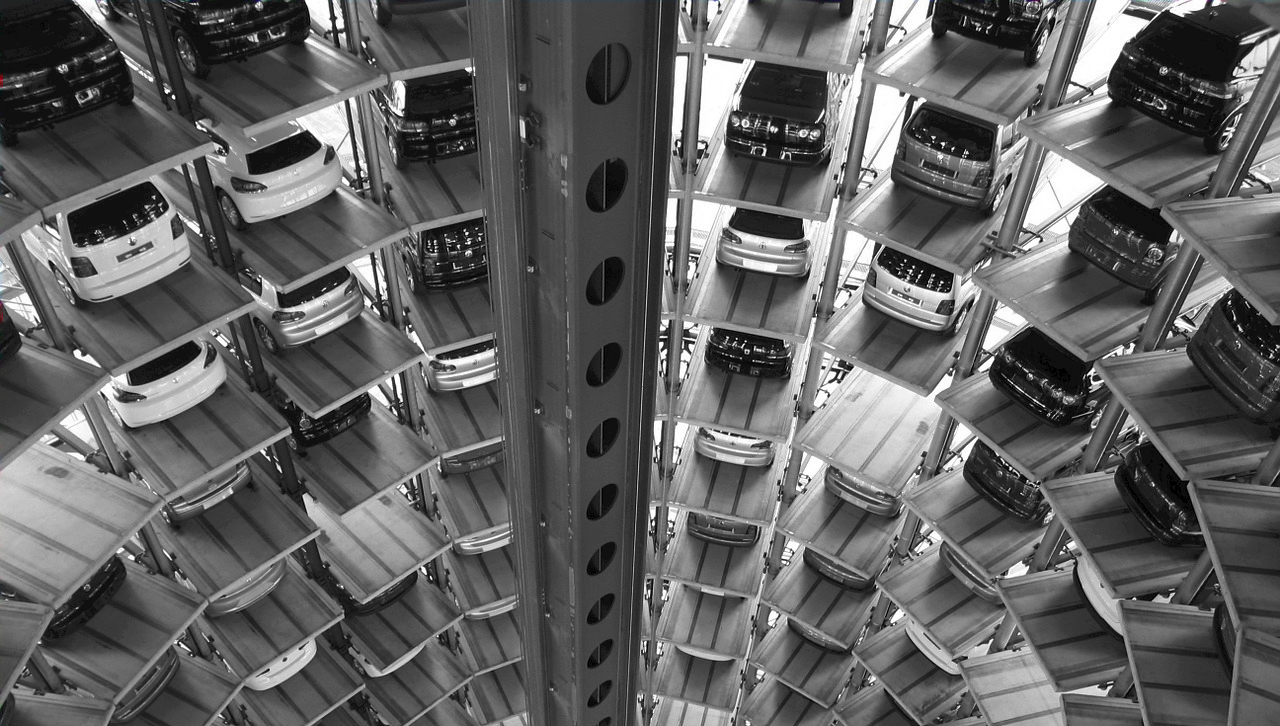
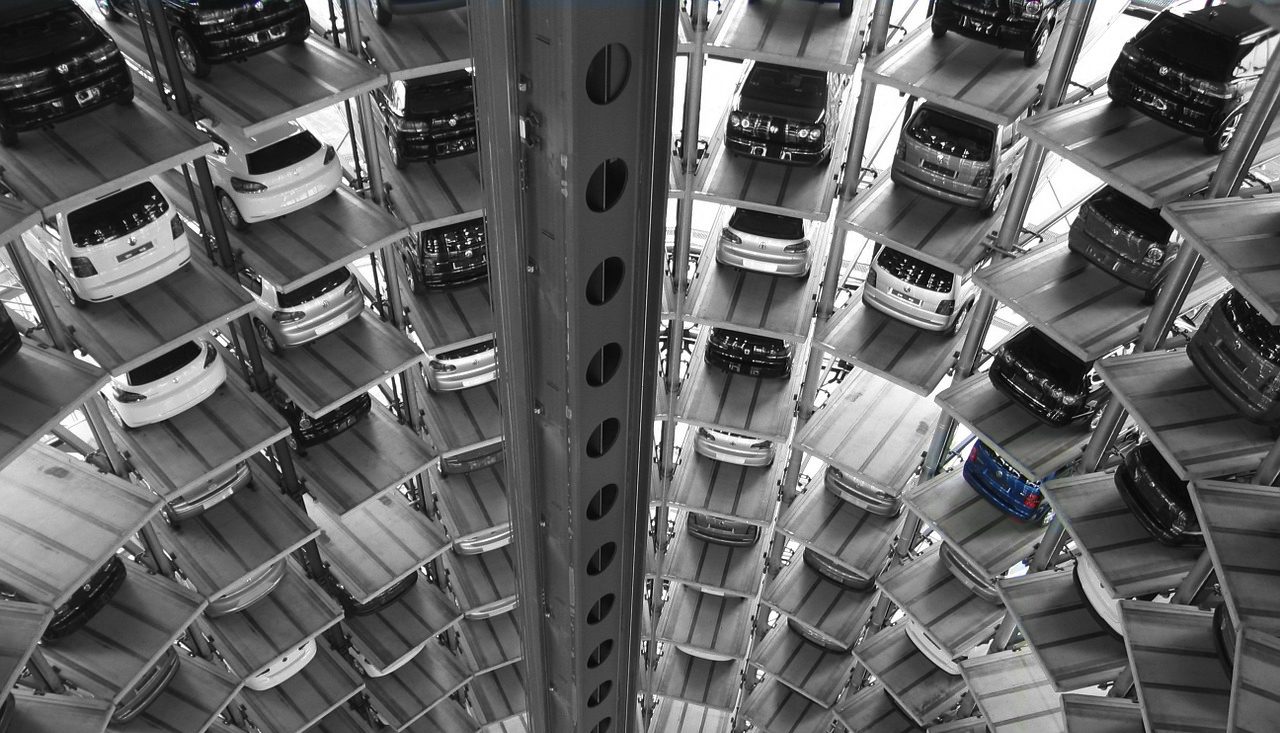
Arbete med bilderna - färginslag

diff --git a/index.html b/index.html
@@ -7,13 +7,13 @@
 	<link href="https://fonts.googleapis.com/css?family=Noto+Sans+JP&display=swap" rel="stylesheet"> 
 	<link href="https://fonts.googleapis.com/css?family=Pacifico&display=swap" rel="stylesheet"> 
     <style>
-        .midcol {background-image:url("svartvita.jpg");
+        .midcol {background-image:url("body.jpg");
                 }
     </style>
     <style>
         .innehall 	{
-                    margin-left:10%; 
-                    margin-right: 60%; 
+                    margin-left:30%; 
+                    margin-right: 30%; 
                     }
     </style>
 	</head>
@@ -28,7 +28,7 @@
 		<a href="ovrigatjanster.html">V&aring;ra &ouml;vriga tj&auml;nster</a>
         <a href="hittatilloss.html">Hitta till oss</a>
         <a href="kontakt.html">Kontakt</a>
-        <a href="omoss.html">Om oss</a>
+        <a href="omoss.html">Om sidan</a>
         </div>
 		<div class = "midcol">
 			

diff --git a/omoss.html b/omoss.html
@@ -8,7 +8,7 @@
 	<link href="https://fonts.googleapis.com/css?family=Pacifico&display=swap" rel="stylesheet"> 
 	   <style> 
 			.midcol {
-   					background-image: url('service.jpg');
+   					background-image: url('omsidan.jpg');
 					}
         </style>
         <style>
@@ -29,7 +29,7 @@
 		<a href="ovrigatjanster.html">V&aring;ra &ouml;vriga tj&auml;nster</a>
         <a href="hittatilloss.html">Hitta till oss</a>
         <a href="kontakt.html">Kontakt</a>
-        <a href="omoss.html">Om oss</a>
+        <a href="omoss.html">Om sidan</a>
         </div>
         <div class="midcol">
 			 			<br>

diff --git a/kontakt.html b/kontakt.html
@@ -30,7 +30,7 @@
 		<a href="ovrigatjanster.html">V&aring;ra &ouml;vriga tj&auml;nster</a>
         <a href="hittatilloss.html">Hitta till oss</a>
         <a href="kontakt.html">Kontakt</a>
-        <a href="omoss.html">Om oss</a>
+        <a href="omoss.html">Om sidan</a>
         </div>
 			        		<div class = "midcol">
 			<br><br>

diff --git a/hittatilloss.html b/hittatilloss.html
@@ -29,7 +29,7 @@
 		<a href="ovrigatjanster.html">V&aring;ra &ouml;vriga tj&auml;nster</a>
         <a href="hittatilloss.html">Hitta till oss</a>
         <a href="kontakt.html">Kontakt</a>
-        <a href="omoss.html">Om oss</a>
+        <a href="omoss.html">Om sidan</a>
         </div>
         <div class="midcol">
 			 			<br>

diff --git a/ovrigatjanster.html b/ovrigatjanster.html
@@ -29,7 +29,7 @@
 		<a href="ovrigatjanster.html">V&aring;ra &ouml;vriga tj&auml;nster</a>
         <a href="hittatilloss.html">Hitta till oss</a>
         <a href="kontakt.html">Kontakt</a>
-        <a href="omoss.html">Om oss</a>
+        <a href="omoss.html">Om sidan</a>
         </div>
         <div class="midcol">
 			 			<br>

diff --git a/bokaparkering.html b/bokaparkering.html
@@ -30,7 +30,7 @@
 		<a href="ovrigatjanster.html">V&aring;ra &ouml;vriga tj&auml;nster</a>
         <a href="hittatilloss.html">Hitta till oss</a>
         <a href="kontakt.html">Kontakt</a>
-        <a href="omoss.html">Om oss</a>
+        <a href="omoss.html">Om sidan</a>
         </div>
 			 <div class = "midcol">
 			<br>
